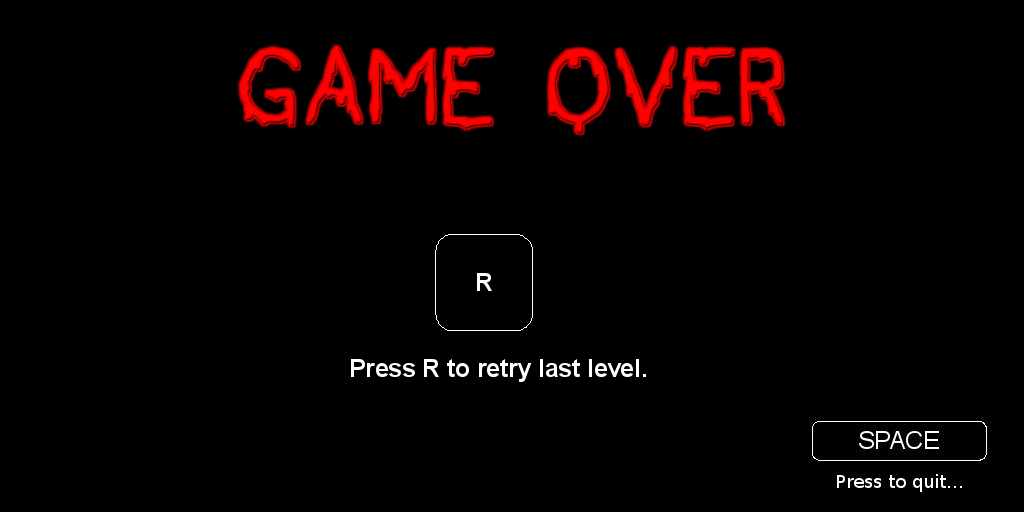
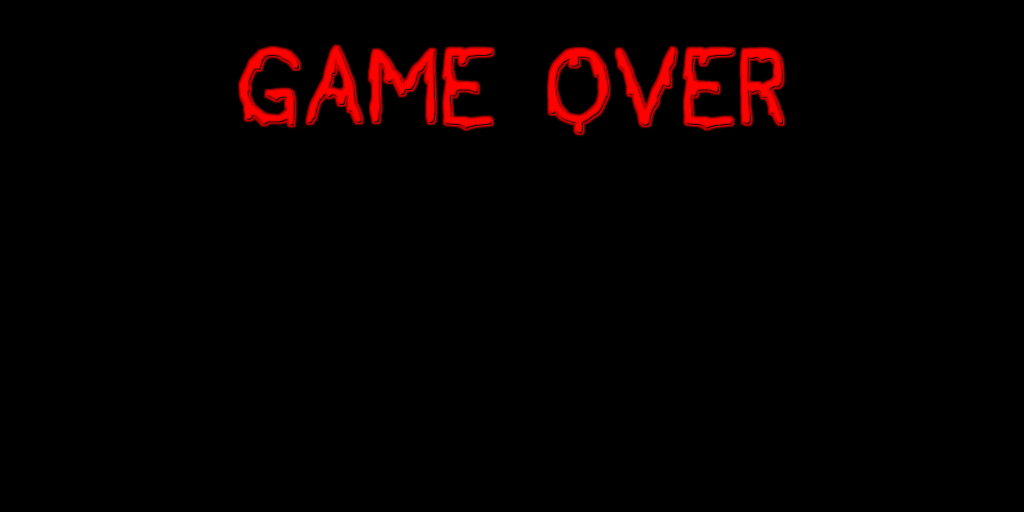
simplest key navigation

diff --git a/newton_adventure/src/main/java/im/bci/newtonadv/game/StoryboardSequence.java b/newton_adventure/src/main/java/im/bci/newtonadv/game/StoryboardSequence.java
@@ -36,6 +36,8 @@ import org.lwjgl.opengl.Display;
 import org.lwjgl.opengl.GL11;
 import org.lwjgl.util.glu.GLU;
 import im.bci.newtonadv.Game;
+import im.bci.newtonadv.util.TrueTypeFont;
+import java.awt.Font;
 
 public class StoryboardSequence implements Sequence {
 
@@ -49,6 +51,7 @@ public class StoryboardSequence implements Sequence {
     private Game game;
     private final String music;
     private boolean redraw = true;
+    protected TrueTypeFont font;
 
     public StoryboardSequence(Game game, String texture, String music, Sequence nextSequence) {
         this.game = game;
@@ -80,8 +83,17 @@ public class StoryboardSequence implements Sequence {
             GL11.glTexCoord2f(u1, 1.0f);
             GL11.glVertex2f(x1, y1);
             GL11.glEnd();
+            drawContinueText();
             GL11.glPopMatrix();
         }
+    }
+
+    protected void drawContinueText() {
+        GL11.glPushAttrib(GL11.GL_COLOR_BUFFER_BIT | GL11.GL_ENABLE_BIT);
+        GL11.glEnable(GL11.GL_ALPHA_TEST);
+        GL11.glAlphaFunc(GL11.GL_GREATER, 0.1f);
+        font.drawString(ortho2DRight, ortho2DBottom - font.getHeight(), "Press enter to continue ", 1, -1, TrueTypeFont.ALIGN_RIGHT);
+        GL11.glPopAttrib();
     }
 
     @Override
@@ -92,7 +104,7 @@ public class StoryboardSequence implements Sequence {
 
     @Override
     public void processInputs() throws TransitionException {
-        if (Keyboard.isKeyDown(Keyboard.KEY_SPACE)) {
+        if (Keyboard.isKeyDown(Keyboard.KEY_RETURN)) {
             mustQuit = true;
         } else if (mustQuit) {
             throw new Sequence.TransitionException(nextSequence);
@@ -105,12 +117,14 @@ public class StoryboardSequence implements Sequence {
         }
         redraw = true;
         mustQuit = false;
+        font = new TrueTypeFont(new Font("monospaced", Font.BOLD, 32), false);
     }
 
     public void stop() {
         if (music != null) {
             game.getSoundCache().stopMusic();
         }
+        font.destroy();
     }
 
     void setNextSequence(Sequence nextSequence) {

diff --git a/newton_adventure/src/main/java/im/bci/newtonadv/game/ScoreSequence.java b/newton_adventure/src/main/java/im/bci/newtonadv/game/ScoreSequence.java
@@ -102,7 +102,7 @@ public class ScoreSequence implements Sequence {
             }
             String questScoreStr = "Quest total: " + (scorePerCentToShow * questScore.computeScore() / 100);
             font.drawString(0, i++ * font.getHeight(), questScoreStr, 1, -1, TrueTypeFont.ALIGN_LEFT);
-            font.drawString(ortho2DRight, ortho2DBottom - font.getHeight() * 2, "Press space to send score to server ", 1, -1, TrueTypeFont.ALIGN_RIGHT);
+            font.drawString(ortho2DRight, ortho2DBottom - font.getHeight() * 2, "Press enter to send score to server ", 1, -1, TrueTypeFont.ALIGN_RIGHT);
             font.drawString(ortho2DRight, ortho2DBottom - font.getHeight(), "Press right to skip ", 1, -1, TrueTypeFont.ALIGN_RIGHT);
             GL11.glPopMatrix();
             GL11.glPopAttrib();
@@ -119,7 +119,7 @@ public class ScoreSequence implements Sequence {
     }
 
     public void processInputs() throws TransitionException {
-        if (Keyboard.isKeyDown(Keyboard.KEY_SPACE)) {
+        if (Keyboard.isKeyDown(Keyboard.KEY_RETURN)) {
             mustSendScoreQuit = true;
         } else if (mustSendScoreQuit) {
             scoreServer.sendScore(questScore.getQuestName(), questScore.computeScore());

diff --git a/newton_adventure/src/main/java/im/bci/newtonadv/game/GameOverSequence.java b/newton_adventure/src/main/java/im/bci/newtonadv/game/GameOverSequence.java
@@ -34,6 +34,8 @@ package im.bci.newtonadv.game;
 import org.lwjgl.input.Keyboard;
 import im.bci.newtonadv.Game;
 import im.bci.newtonadv.game.Sequence.TransitionException;
+import im.bci.newtonadv.util.TrueTypeFont;
+import org.lwjgl.opengl.GL11;
 
 public class GameOverSequence extends StoryboardSequence {
 
@@ -46,9 +48,18 @@ public class GameOverSequence extends StoryboardSequence {
 
     @Override
     public void processInputs() throws TransitionException {
-        if (Keyboard.isKeyDown(Keyboard.KEY_R)) {
+        if (Keyboard.isKeyDown(Keyboard.KEY_UP)) {
             throw new Sequence.TransitionException(level);
         }
         super.processInputs();
+    }
+
+    @Override
+    protected void drawContinueText() {
+        GL11.glPushAttrib(GL11.GL_COLOR_BUFFER_BIT | GL11.GL_ENABLE_BIT);
+        GL11.glEnable(GL11.GL_ALPHA_TEST);
+        GL11.glAlphaFunc(GL11.GL_GREATER, 0.1f);
+        font.drawString(ortho2DRight, ortho2DBottom - font.getHeight() * 2, "Press up to retry ", 1, -1, TrueTypeFont.ALIGN_RIGHT);
+        GL11.glPopAttrib();
     }
 }
